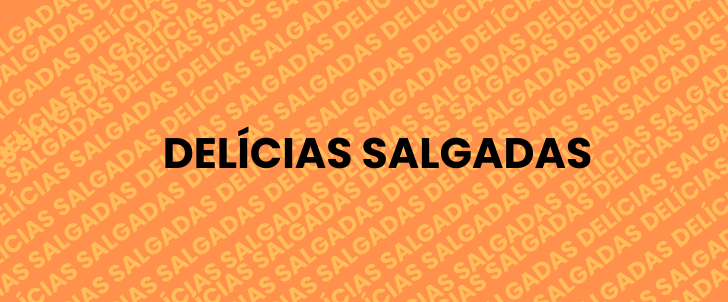
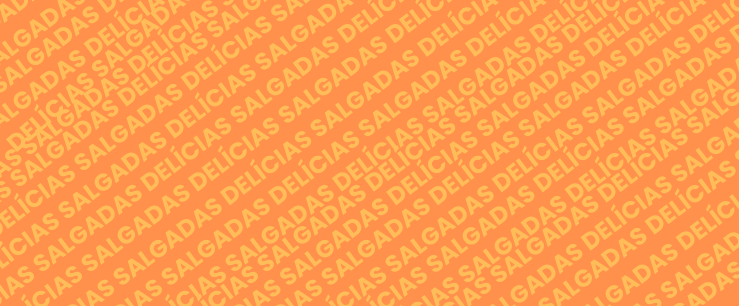
Ajustando responsividade

diff --git a/entrega4/src/Pages/RegistrarPedido/index.js b/entrega4/src/Pages/RegistrarPedido/index.js
@@ -4,7 +4,6 @@ import Header from "../../Components/Header";
 import Input from "../../Components/Input";
 import Button from "../../Components/Button";
 
-
 function NovosPedidos({ onPedidoRegistrado }) {
   const [nomeCliente, setNomeCliente] = useState("");
   const [mesa, setMesa] = useState("");
@@ -20,8 +19,14 @@ function NovosPedidos({ onPedidoRegistrado }) {
       valor,
       status,
     };
-    // Chamamos a função fornecida por propriedade para adicionar o pedido à lista
-    onPedidoRegistrado(novoPedido);
+
+    // Verifica se onPedidoRegistrado é uma função antes de chamar
+    if (typeof onPedidoRegistrado === 'function') {
+      onPedidoRegistrado(novoPedido);
+    } else {
+      console.error('onPedidoRegistrado não é uma função.');
+    }
+
     setNomeCliente("");
     setMesa("");
     setProduto("");
@@ -37,25 +42,25 @@ function NovosPedidos({ onPedidoRegistrado }) {
         <Container>
           <h1>Registrar Novo Pedido</h1>
           <Input
-  placeholder="Nome do Cliente..."
-  setvariavel={setNomeCliente}
-  value={nomeCliente}
-/>
-<Input
-  placeholder="Mesa..."
-  setvariavel={setMesa}
-  value={mesa}
-/>
-<Input
-  placeholder="Produto..."
-  setvariavel={setProduto}
-  value={produto}
-/>
-<Input
-  placeholder="Valor..."
-  setvariavel={setValor}
-  value={valor}
-/>
+            placeholder="Nome do Cliente..."
+            setvariavel={setNomeCliente}
+            value={nomeCliente}
+          />
+          <Input
+            placeholder="Mesa..."
+            setvariavel={setMesa}
+            value={mesa}
+          />
+          <Input
+            placeholder="Produto..."
+            setvariavel={setProduto}
+            value={produto}
+          />
+          <Input
+            placeholder="Valor..."
+            setvariavel={setValor}
+            value={valor}
+          />
 
           <h2>Status: {status}</h2>
           <ButtonDiv>

diff --git a/entrega4/src/Pages/AcompanharPedidos/index.js b/entrega4/src/Pages/AcompanharPedidos/index.js
@@ -1,21 +1,20 @@
-import React, { useState } from "react";
+import React, { useState, useEffect } from "react";
 import { Body, Container, Pages, StyledLink } from "./styles";
 import Header from "../../Components/Header";
-import PedidosC from "../../Components/PedidosC"; // Certifique-se de substituir com o nome correto do seu componente
+import PedidosC from "../../Components/PedidosC";
 
 function Pedidos({ inforegistro }) {
-  // Armazenamos os pedidos em um estado usando useState
   const [listaPedidos, setListaPedidos] = useState([
     { cliente: "Renata Vasconcelos", mesa: "Mesa 3", produto: "Empadão de Camarão", valor: "R$12,00", status: "Em produção" },
     { cliente: "João Silva", mesa: "Mesa 1", produto: "Pizza Margherita", valor: "R$25,00", status: "Entregue" },
-    
   ]);
 
-  console.log(inforegistro);
-  // Adicionando o pedido à lista de pedidos, caso tenha recebido um pedido da página de registro
-  if (inforegistro != null) {
-    setListaPedidos([...listaPedidos, inforegistro]);
-  }
+  // Adicionando o pedido à lista de pedidos usando useEffect para garantir que a lista seja atualizada após a renderização
+  useEffect(() => {
+    if (inforegistro) {
+      setListaPedidos((prevPedidos) => [...prevPedidos, inforegistro]);
+    }
+  }, [inforegistro]);
 
   return (
     <Pages>
@@ -23,11 +22,10 @@ function Pedidos({ inforegistro }) {
       <Body>
         <Container>
           <h1>Acompanhar Pedidos</h1>
-           {/* Mapeando a lista de pedidos e renderizando cada pedido usando o componente PedidosC */}
           {listaPedidos.map((pedido, index) => (
             <PedidosC key={index} pedido={pedido}></PedidosC>
           ))}
-           <StyledLink to="/RegistrarPedido">
+          <StyledLink to="/RegistrarPedido">
             <button>Registrar Pedido</button>
           </StyledLink>
         </Container>

diff --git a/entrega4/src/Components/Input/index.jsx b/entrega4/src/Components/Input/index.jsx
@@ -1,16 +1,25 @@
 
-import React from "react";
+import React, { useState } from "react";
 import { InputDiv } from './styles';
-// Componente funcional para um campo de entrada de texto reutilizável
+
 function Input(props) {
+  // Adicionando um estado local para o valor do input
+  const [inputValue, setInputValue] = useState(props.value || ''); // Defina um valor inicial se necessário
+
   return (
     <InputDiv
       type={props.tipo}
       placeholder={props.placeholder}
-	   // Adicionando um evento de alteração (onChange) para atualizar a variável recebida como propriedade
-      onChange={(e) => props.setvariavel(e.target.value)}
+      // Atualizando o estado local quando o valor do input mudar
+      onChange={(e) => {
+        setInputValue(e.target.value);
+        // Passando o valor atualizado para o componente pai, se necessário
+        if (props.setvariavel) {
+          props.setvariavel(e.target.value);
+        }
+      }}
       id={props.id}
-      value={props.value}
+      value={inputValue} // Usando o estado local como valor do input
     />
   );
 }

diff --git a/entrega4/src/Pages/Home/index.jsx b/entrega4/src/Pages/Home/index.jsx
@@ -1,15 +1,16 @@
 import React from "react";
 import Header from "../../Components/Header";
-import { Background} from "./styles";
-
+import { Background, Title } from "./styles";
 
 function Home() {
-    return (
-        <div>
-            <Header />
-            <Background>
-            </Background>
-        </div>
-    )
+  return (
+    <div>
+      <Header />
+      <Background>
+        <Title>Delícias Salgadas</Title>
+      </Background>
+    </div>
+  );
 }
+
 export default Home;

diff --git a/entrega4/src/Pages/Home/styles.js b/entrega4/src/Pages/Home/styles.js
@@ -22,7 +22,11 @@ export const Background = styled.div`
   /* Outros estilos que você deseja aplicar */
 
 `;
+export const Title = styled.h1`
+  font-size: 5em; // Tamanho da fonte
+  text-align: center; // Centraliza o texto
 
+`;
 
 
 export const IMG = styled.img`
